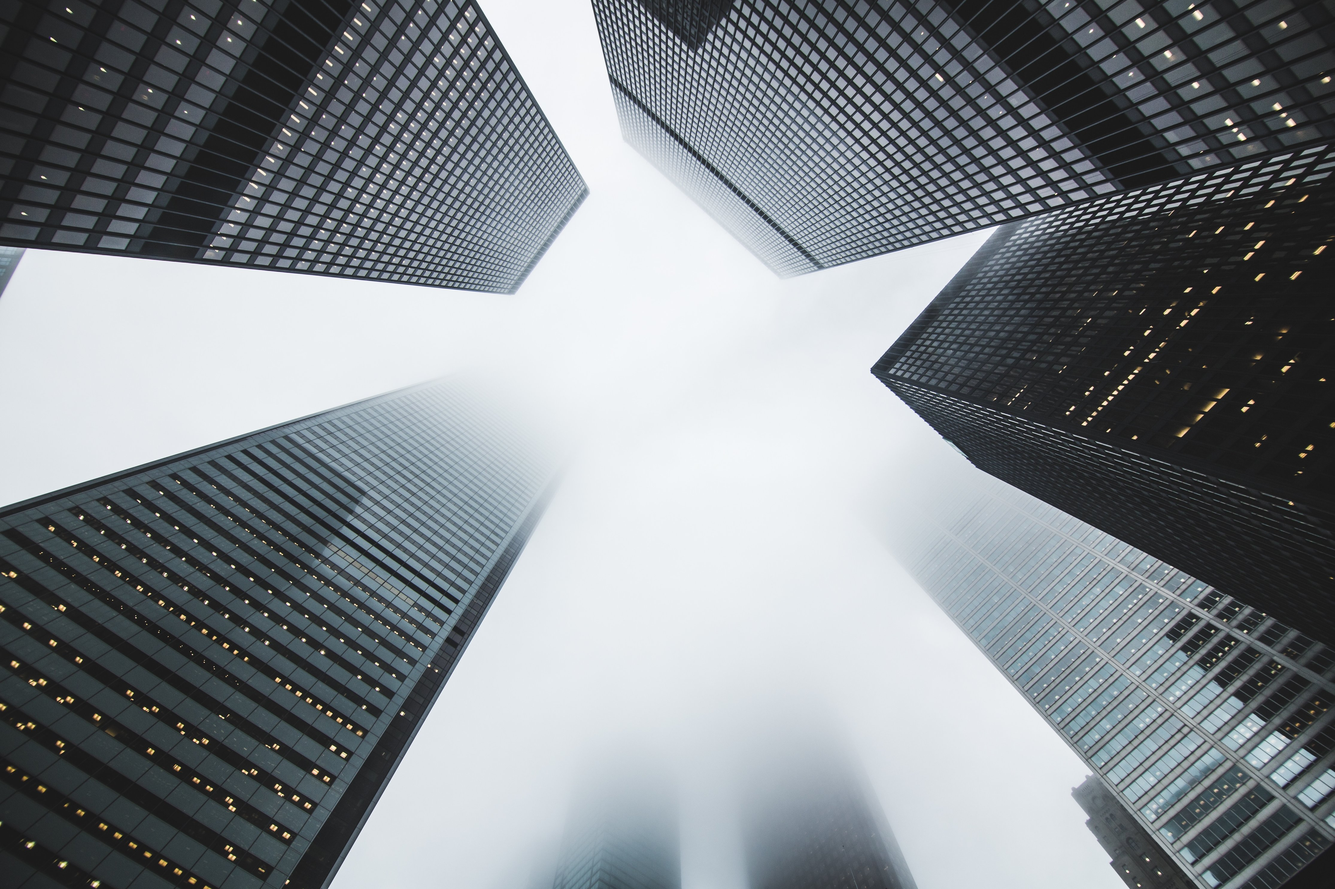
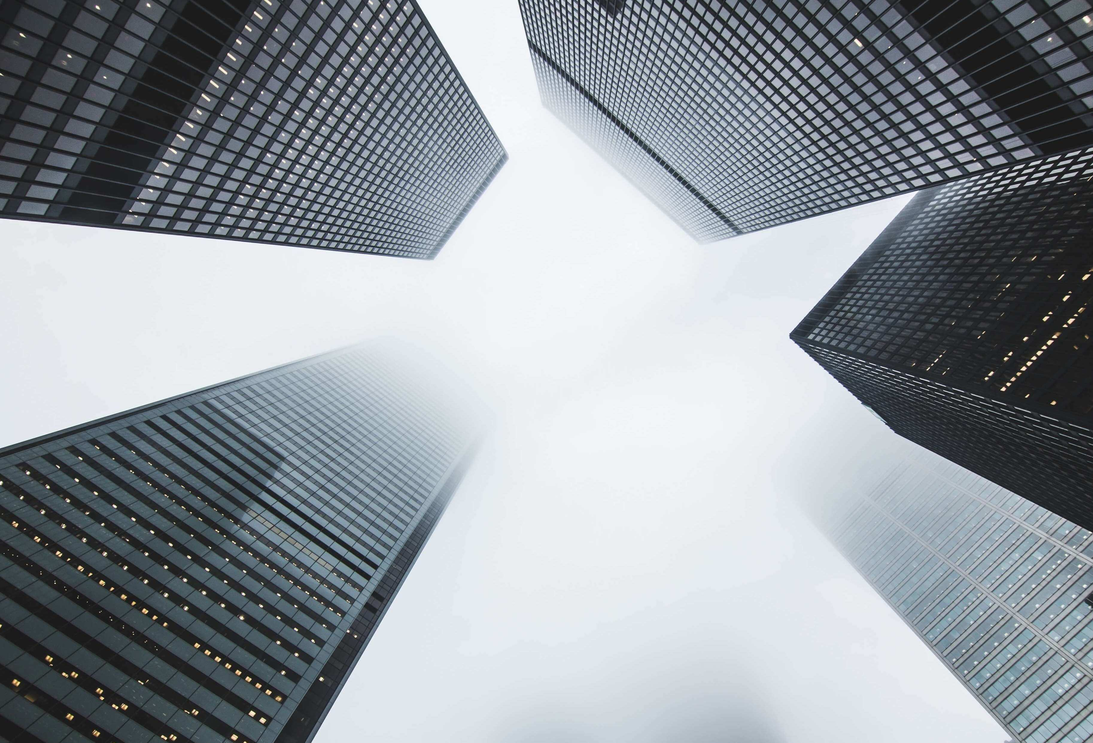
Site Launch 1

diff --git a/src/components/layout.css b/src/components/layout.css
@@ -76,35 +76,63 @@ header img {
   height: 95vh;
 } */
 
-
 .home-logo {
-  margin-top: -40px;
+  margin-top:-40px;
   height: 100vh;
   /* object-fit: cover;
   object-position: center; */
   /* filter: contrast(1.0); */
   background: linear-gradient(180deg, rgba(0, 0, 0, 0) 90%, #080808 100%), url("../images/glanzrock-3d-bg.jpg");
-  background-size: contain;
-  background-position: center top;
+  background-size: cover;
+  background-position: center;
   background-repeat: no-repeat;
   
 
 }
-@media (max-width: 600px) {
+
+@media (max-width: 1200px) {
 .home-logo {
-  margin-top: -40px;
+  margin-top:-40px;
+  height: 100vh;
+  /* object-fit: cover;
+  object-position: center; */
+  /* filter: contrast(1.0); */
+  background: linear-gradient(180deg, rgba(0, 0, 0, 0) 90%, #080808 100%), url("../images/glanzrock-3d-bg.jpg");
+  background-size: cover;
+  background-position: center;
+  background-repeat: no-repeat;
+  
+}
+}
+@media (max-width: 800px) {
+.home-logo {
+  margin-top: -10px;
   height: 80vh;
   /* object-fit: cover;
   object-position: center; */
   /* filter: contrast(1.0); */
   background: linear-gradient(180deg, rgba(0, 0, 0, 0) 90%, #080808 100%), url("../images/glanzrock-3d-bg.jpg");
-  background-position: center top;
+  background-position: center;
   background-repeat: no-repeat;
   background-size: cover;
 
 }
 }
 
+@media (max-width: 600px) {
+  .home-logo {
+    margin-top: -10px;
+    height: 60vh;
+    /* object-fit: cover;
+    object-position: center; */
+    /* filter: contrast(1.0); */
+    background: linear-gradient(180deg, rgba(0, 0, 0, 0) 90%, #080808 100%), url("../images/glanzrock-3d-bg.jpg");
+    background-position: center;
+    background-repeat: no-repeat;
+    background-size: cover ;
+  
+  }
+  }
 /* .container img {
   margin-top: -50px;
   height: 100vh;
@@ -786,7 +814,7 @@ textarea {
 
 .hero-2 h2 {
   /* transform: rotate(-2deg); */
-  font-size: 2.4em;
+  font-size: 2.8em;
   letter-spacing: 2px;
   font-weight: 100;
   line-height: 1.3;
@@ -820,20 +848,20 @@ textarea {
   /* transform: translateY(-190px); */
 }
 
-@media screen and (max-width: 600px) {
+@media screen and (max-width: 950px) {
   .hero-2 h2 {
     /* transform: rotate(-2deg); */
     font-size: 2.2em;
     line-height: 1.3;
-    margin-bottom: 0.8em;
+    margin-bottom: 0.4em;
   }
 
   .hero-2 {
-    max-width: 800px;
+    max-width: 600px;
     /* padding: 0 2em; */
     /* margin: 40px auto 40px auto; */
     color: white;
-    transform: translateY(-80px);
+    /* transform: translateY(-10px); */
     opacity: 0.9;
   }
 }

diff --git a/src/pages/index.js b/src/pages/index.js
@@ -6,7 +6,7 @@ import Header from "../components/header";
 import Footer from "../components/footer";
 import Projects from "../components/projects";
 
-import glanzrock3dBg from "../images/glanzrock-3d-bg.jpg";
+// import glanzrock3dBg from "../images/glanzrock-3d-bg.jpg";
 
 const IndexPage = () => (
   <Layout>
